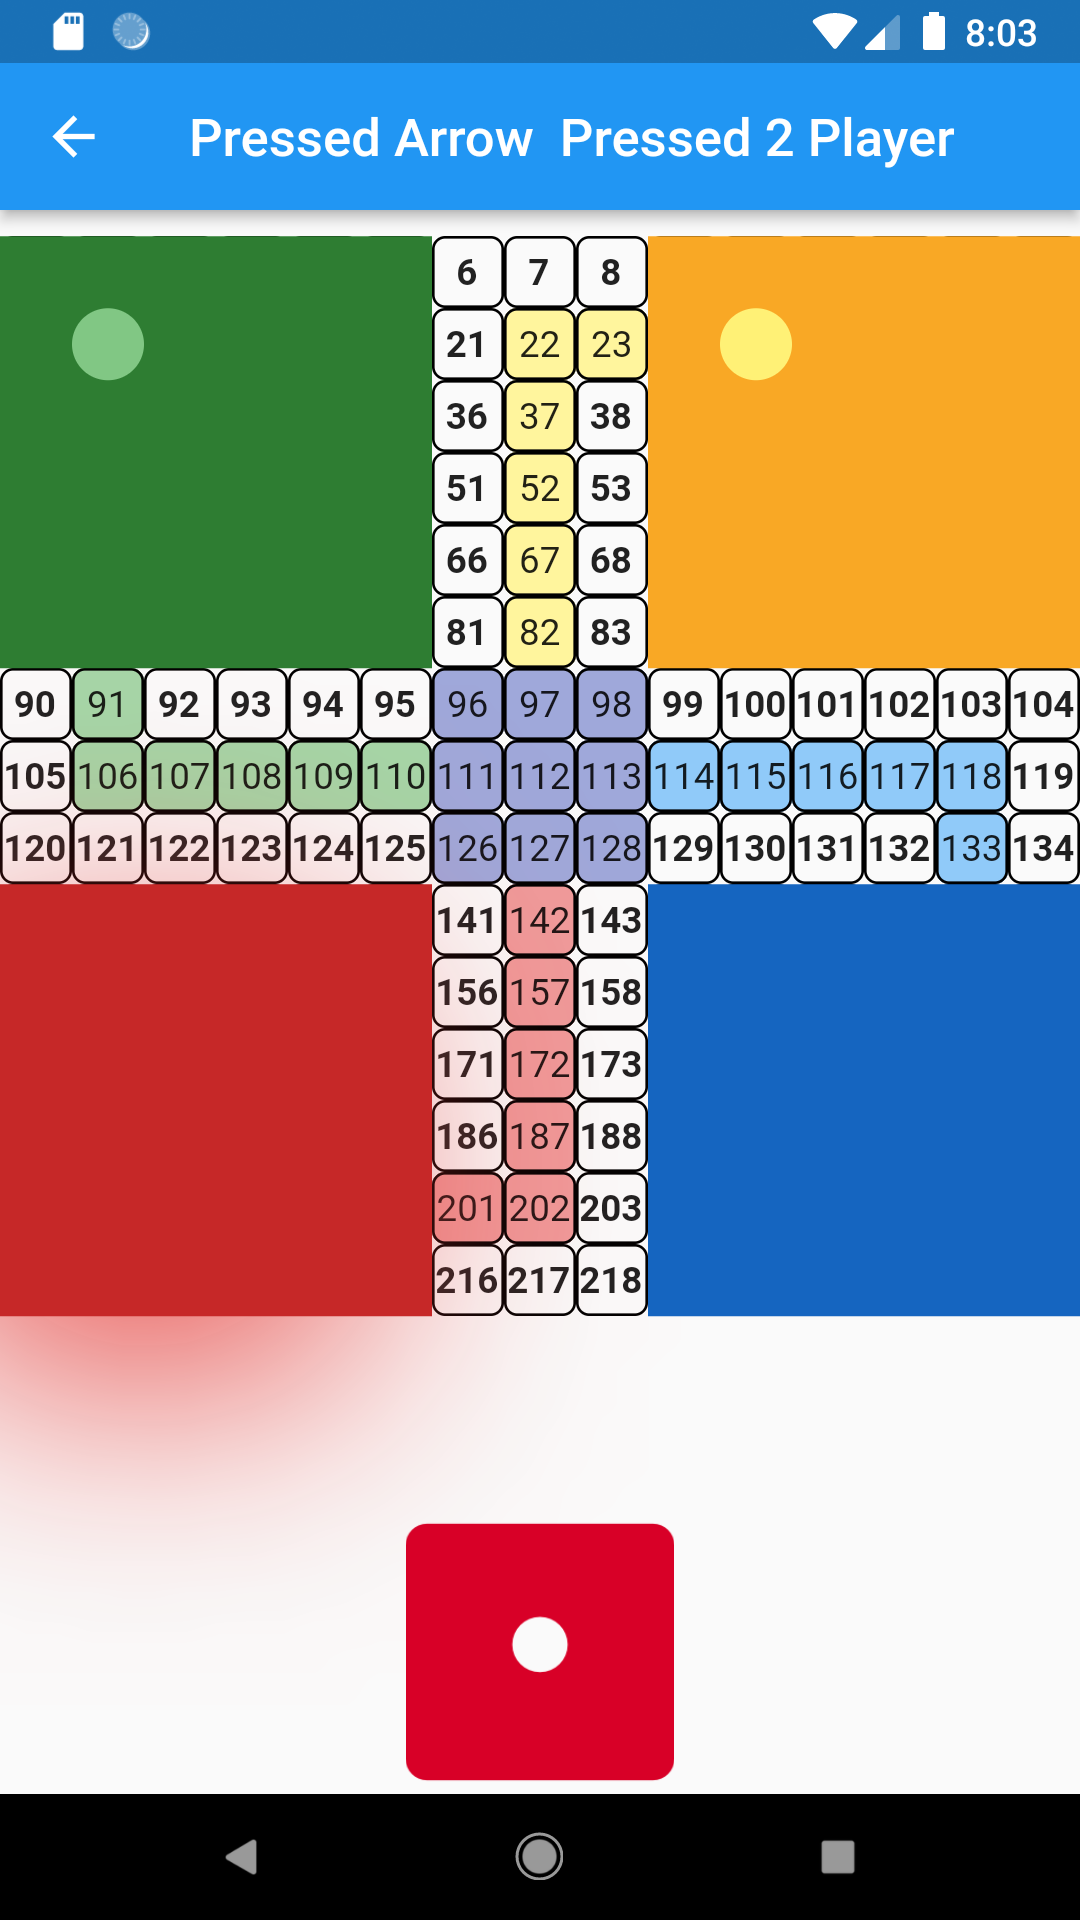
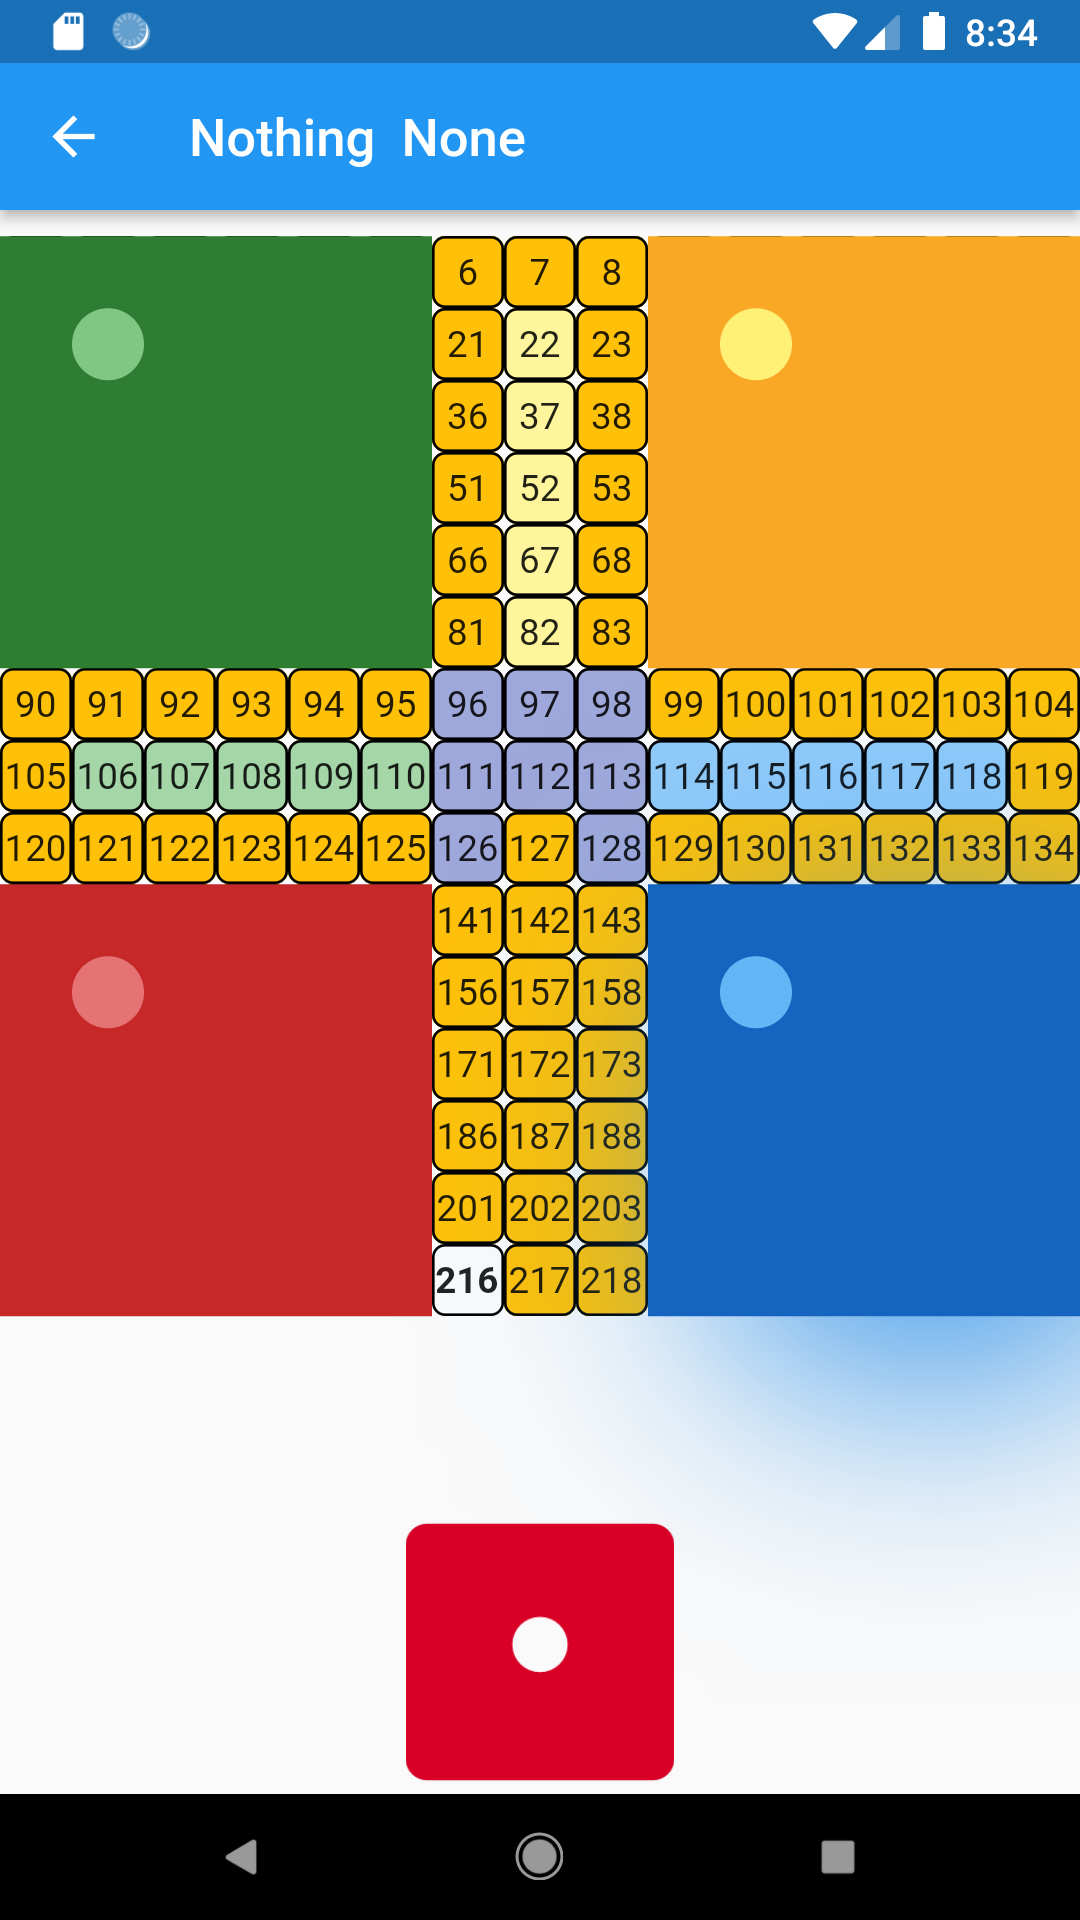
Adding Ludo Piece's path on a list

diff --git a/ludo/lib/ludo_board.dart b/ludo/lib/ludo_board.dart
@@ -57,6 +57,243 @@ class _LudoBoardState extends State<LudoBoard> {
   List redCellColorOnBoard = [201, 202, 187, 172, 157, 142];
   List finalCellColorOnBoard = [96, 97, 98, 111, 112, 113, 126, 127, 128];
 
+  List greenPiecePath = [
+    91,
+    92,
+    93,
+    94,
+    95,
+    81,
+    66,
+    51,
+    36,
+    21,
+    6,
+    7,
+    8,
+    23,
+    38,
+    53,
+    68,
+    83,
+    99,
+    100,
+    101,
+    102,
+    103,
+    104,
+    119,
+    134,
+    133,
+    132,
+    131,
+    130,
+    129,
+    143,
+    158,
+    173,
+    188,
+    203,
+    218,
+    217,
+    216,
+    201,
+    186,
+    171,
+    156,
+    141,
+    125,
+    124,
+    123,
+    122,
+    121,
+    120,
+    105,
+    106,
+    107,
+    108,
+    109,
+    110,
+    111,
+  ];
+  List yellowPiecePath = [
+    23,
+    38,
+    53,
+    68,
+    83,
+    99,
+    100,
+    101,
+    102,
+    103,
+    104,
+    119,
+    134,
+    133,
+    132,
+    131,
+    130,
+    129,
+    143,
+    158,
+    173,
+    188,
+    203,
+    218,
+    217,
+    216,
+    201,
+    186,
+    171,
+    156,
+    141,
+    125,
+    124,
+    123,
+    122,
+    121,
+    120,
+    105,
+    90,
+    91,
+    92,
+    93,
+    94,
+    95,
+    81,
+    66,
+    51,
+    36,
+    21,
+    6,
+    7,
+    22,
+    37,
+    52,
+    67,
+    82,
+    97
+  ];
+  List bluePiecePath = [
+    133,
+    132,
+    131,
+    130,
+    129,
+    143,
+    158,
+    173,
+    188,
+    203,
+    218,
+    217,
+    216,
+    201,
+    186,
+    171,
+    156,
+    141,
+    125,
+    124,
+    123,
+    122,
+    121,
+    120,
+    105,
+    90,
+    91,
+    92,
+    93,
+    94,
+    95,
+    81,
+    66,
+    51,
+    36,
+    21,
+    6,
+    7,
+    8,
+    23,
+    38,
+    53,
+    68,
+    83,
+    99,
+    100,
+    101,
+    102,
+    103,
+    104,
+    119,
+    118,
+    117,
+    116,
+    115,
+    114,
+    113,
+  ];
+  List redPiecePath = [
+    201,
+    186,
+    171,
+    156,
+    141,
+    125,
+    124,
+    123,
+    122,
+    121,
+    120,
+    105,
+    90,
+    91,
+    92,
+    93,
+    94,
+    95,
+    81,
+    66,
+    51,
+    36,
+    21,
+    6,
+    7,
+    8,
+    23,
+    38,
+    53,
+    68,
+    83,
+    99,
+    100,
+    101,
+    102,
+    103,
+    104,
+    119,
+    134,
+    133,
+    132,
+    131,
+    130,
+    129,
+    143,
+    158,
+    173,
+    188,
+    203,
+    218,
+    217,
+    202,
+    187,
+    172,
+    157,
+    142,
+    127,
+  ];
+
   @override
   Widget build(BuildContext context) {
     return Scaffold(
@@ -125,6 +362,10 @@ class _LudoBoardState extends State<LudoBoard> {
                                         CellColorOnBoard: finalCellColorOnBoard,
                                         color: Colors.indigo.shade200,
                                         index: index),
+                                    CellColorOnBoard(
+                                        CellColorOnBoard: redPiecePath,
+                                        color: Colors.amber,
+                                        index: index)
                                   ],
                                 );
                               },
